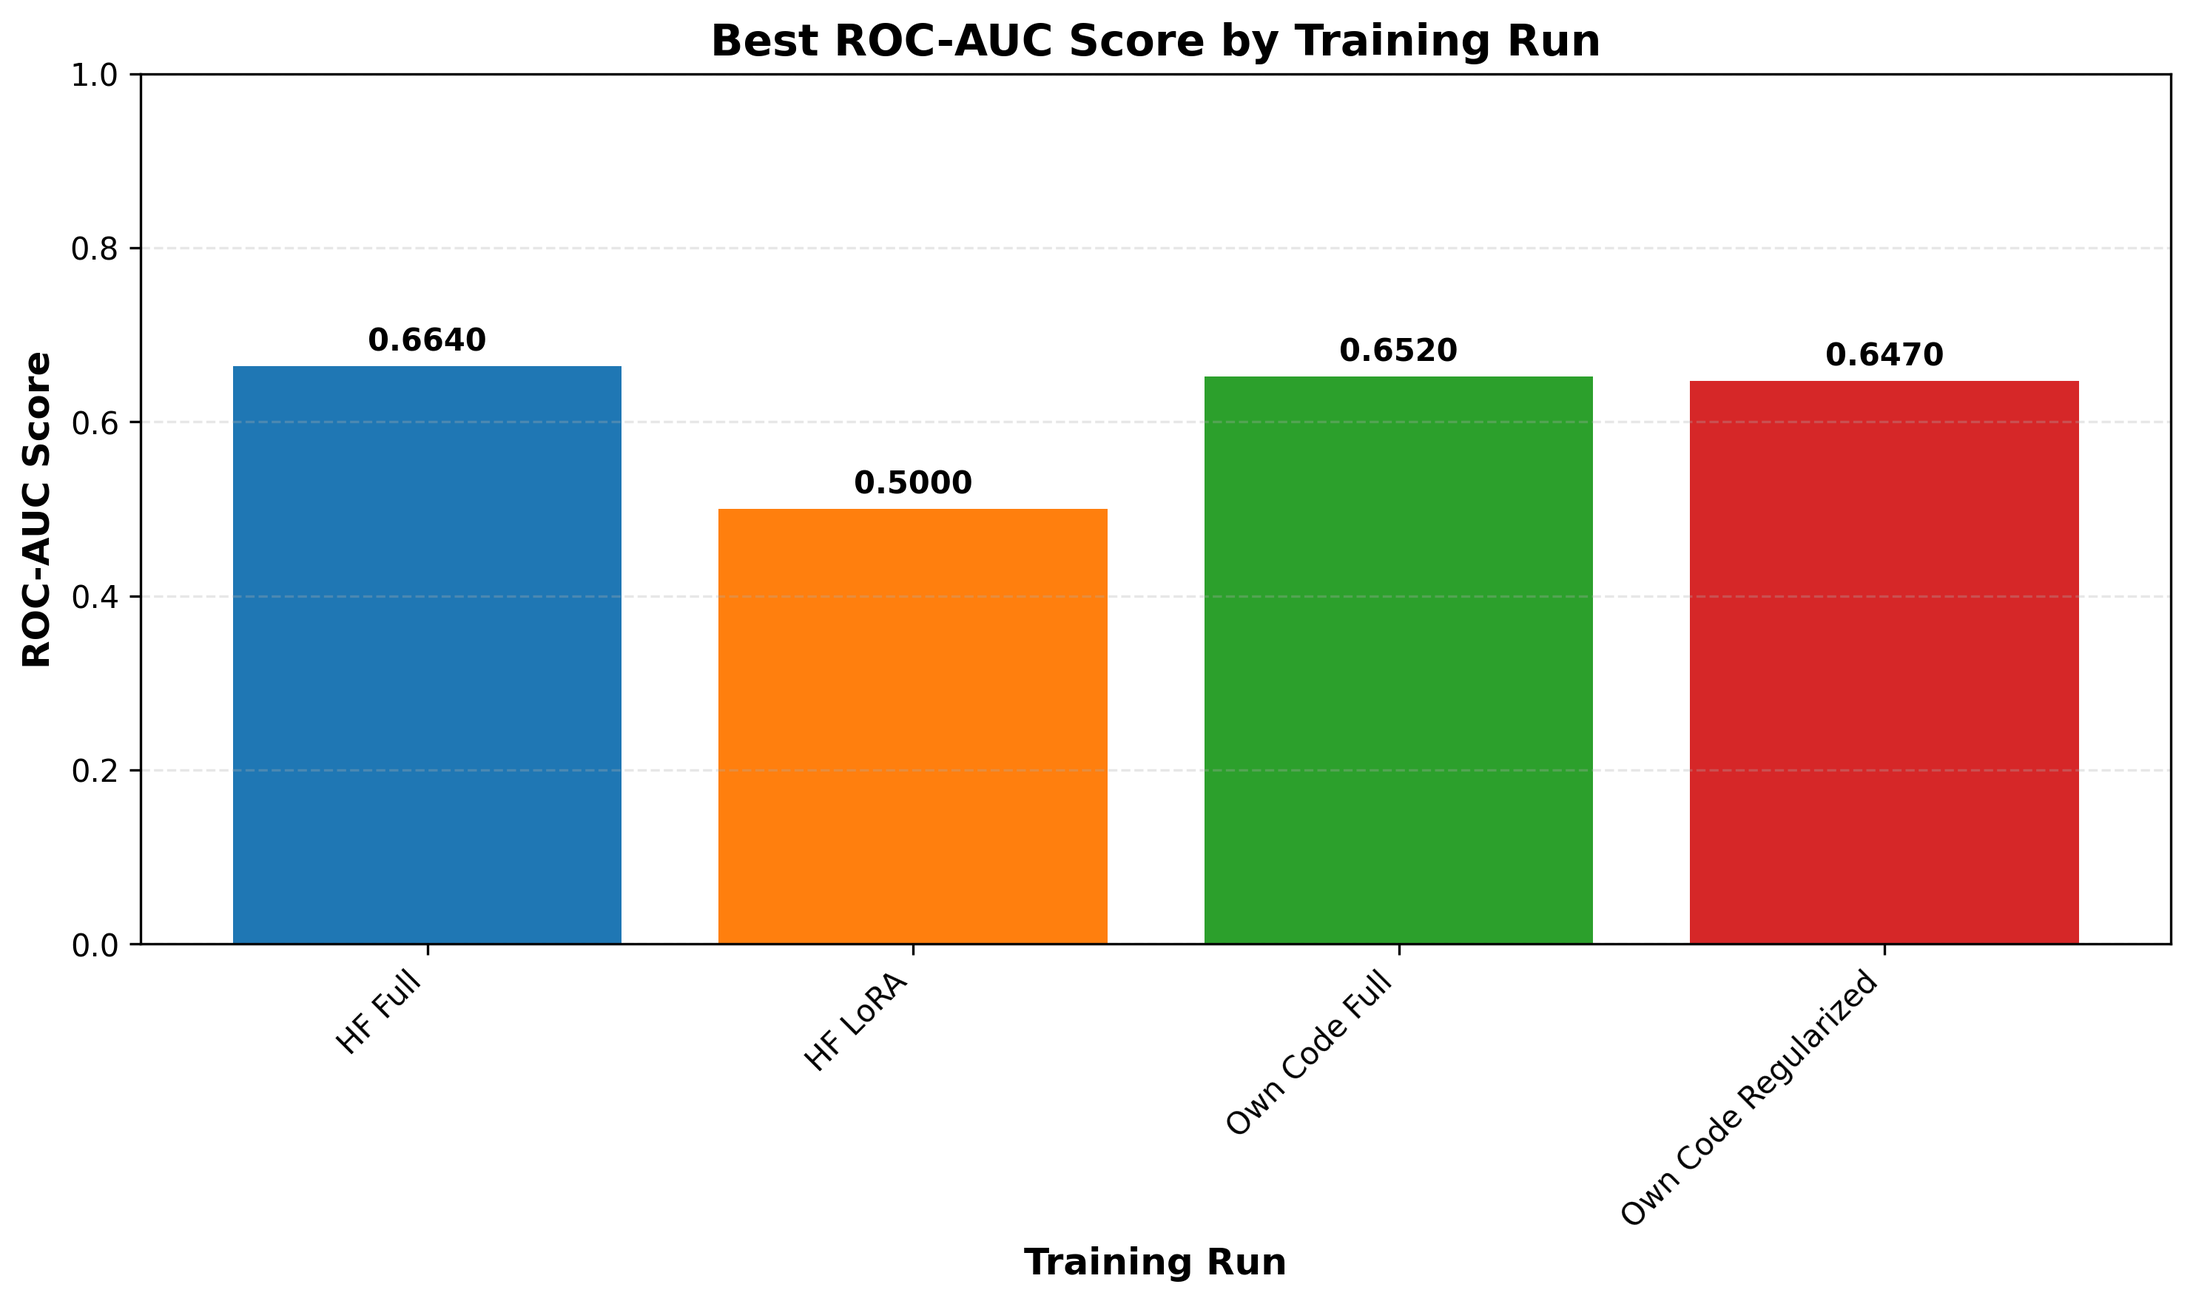
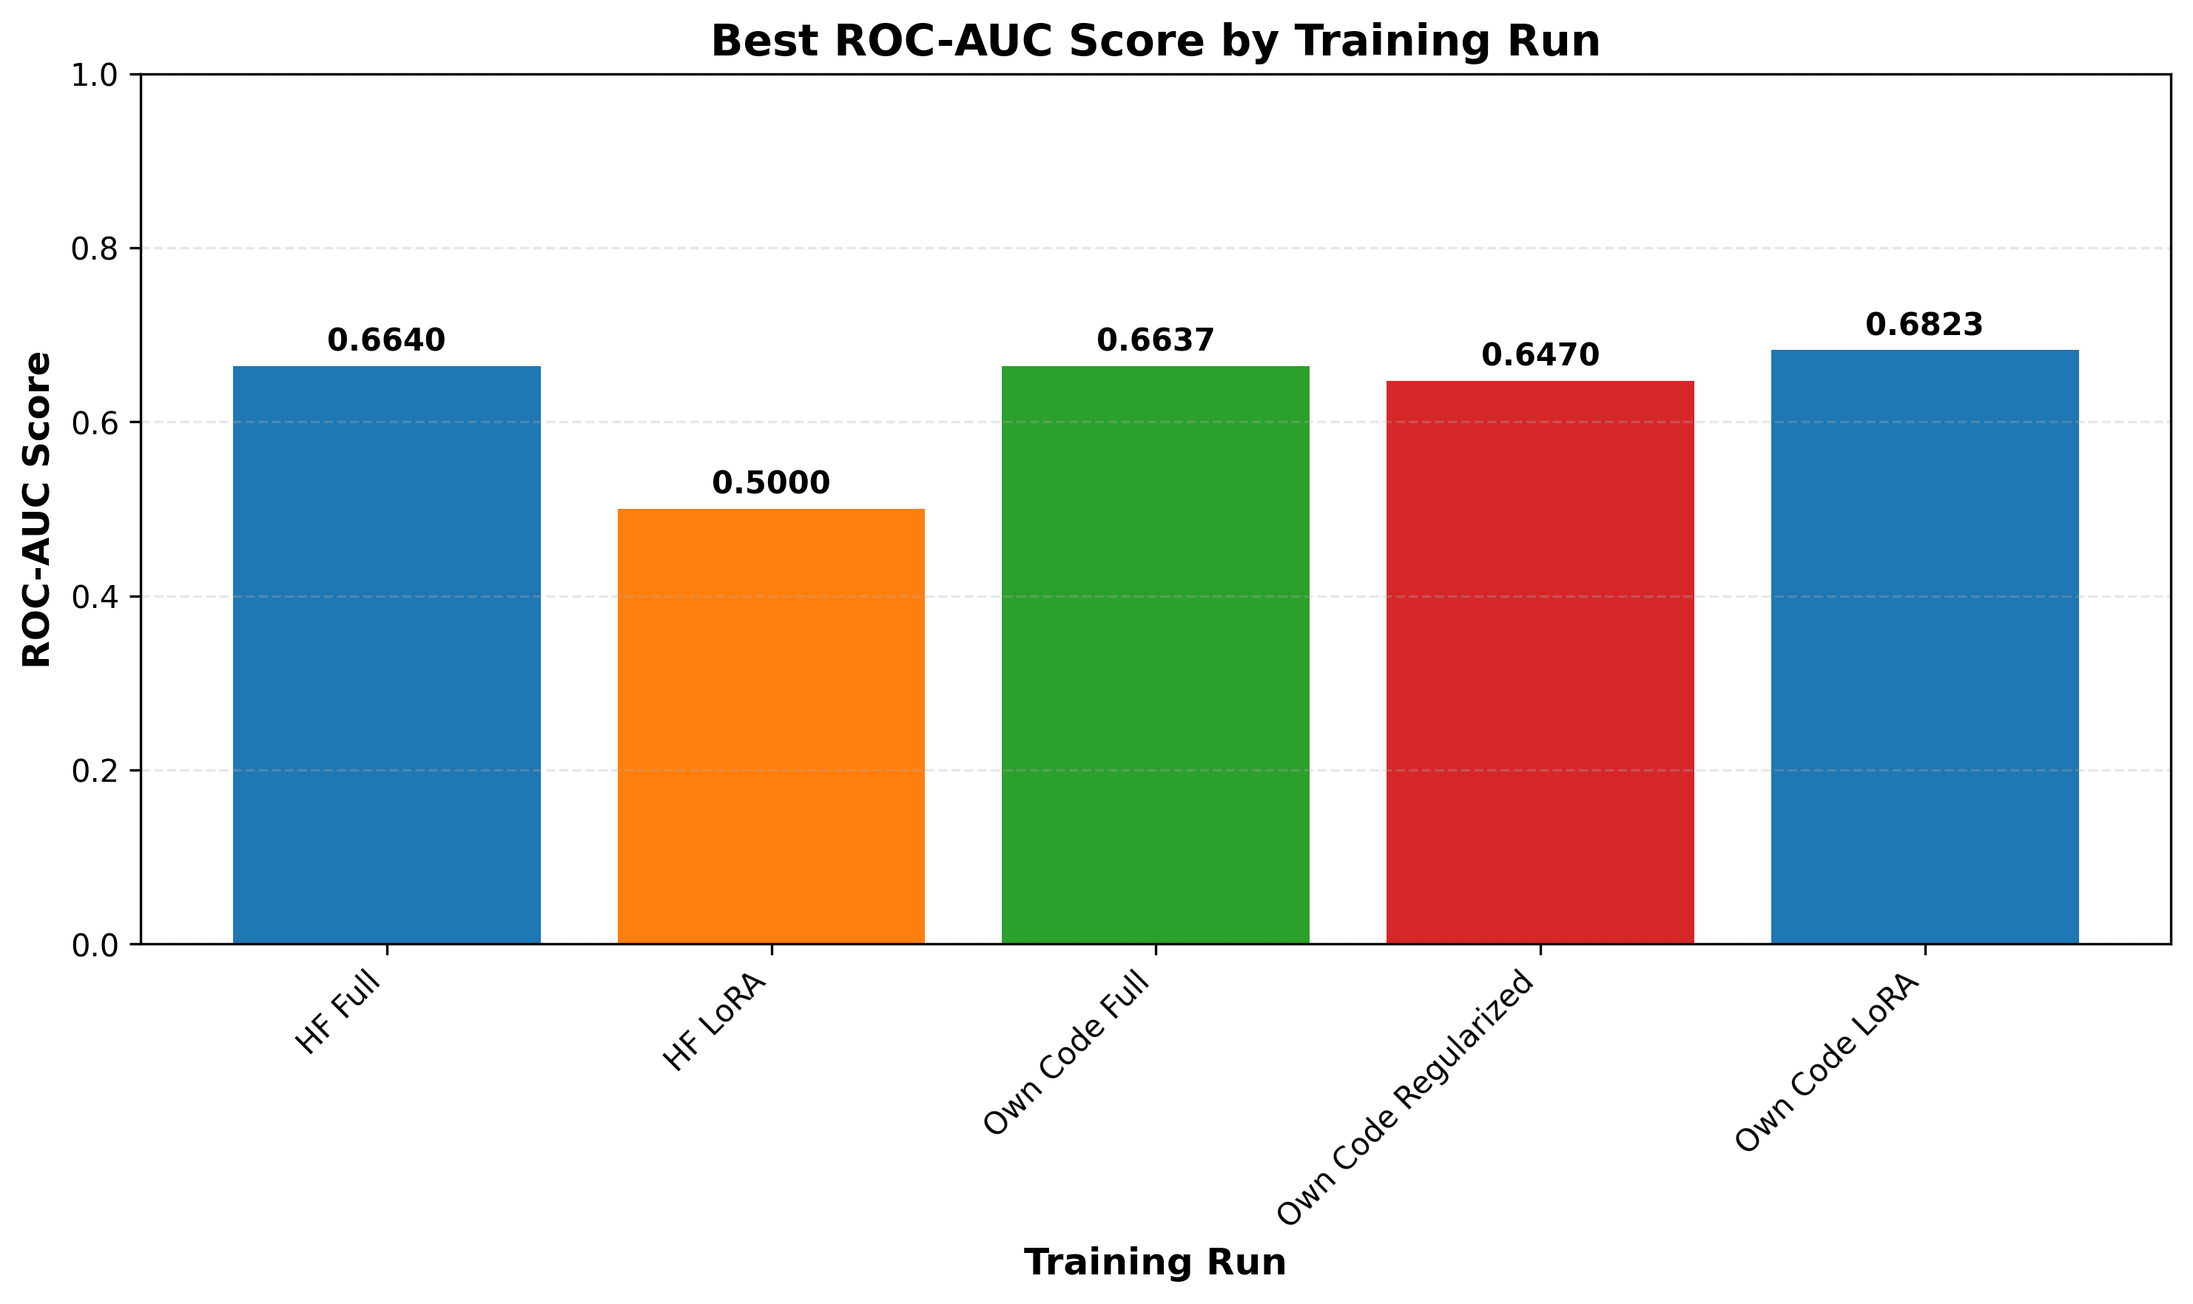
finished version

diff --git a/simple_trainer.py b/simple_trainer.py
@@ -30,14 +30,16 @@ def train(
     checkpoint_dir: Optional[str] = None,
     resume_from_checkpoint: bool = False,
     accumulate_gradient_steps: int = 1,
+    learning_rate: float = 4e-4,
+    max_grad_norm: float = 1.0,
+    num_warmup_steps: Optional[int] = None,
     flag_config: FLAGConfig = FLAGConfig(),
 ):
     # Initialize optimizer and scheduler
     num_steps = n_epochs * len(dataloader)
-    optimizer = get_optimizer(model)
-    scheduler = get_scheduler(optimizer, num_steps)
+    optimizer = get_optimizer(model, learning_rate=learning_rate)
+    scheduler = get_scheduler(optimizer, num_steps, num_warmup_steps=num_warmup_steps)
     current_epoch = 0
-    batch_size: int = cast(int, dataloader.batch_size)
 
     # Load from checkpoint if desired (model, optimizer and scheduler states)
     if resume_from_checkpoint and checkpoint_dir is not None:
@@ -67,6 +69,8 @@ def train(
         train_loss = 0.0
         train_steps = 0
         accumulated_steps = 0
+        total_grad_norm = 0.0
+        grad_norm_count = 0
 
         # Calculate total steps based on simulated batch size
         total_gradient_steps = len(dataloader) // (accumulate_gradient_steps) + (
@@ -97,6 +101,15 @@ def train(
 
                 loss = output.loss
 
+                # Check for NaN loss before proceeding
+                if torch.isnan(loss) or torch.isinf(loss):
+                    print(
+                        f"\nWARNING: NaN/Inf loss detected at epoch {epoch + 1}, step {step}"
+                    )
+                    print(f"Current LR: {scheduler.get_last_lr()[0]:.2e}")
+                    # Skip this batch
+                    continue
+
                 # Normalize loss by accumulation steps
                 loss = loss / accumulate_gradient_steps
 
@@ -118,6 +131,27 @@ def train(
             if can_apply_gradient_step(
                 accumulated_steps, accumulate_gradient_steps, step, len(dataloader)
             ):
+                # Compute gradient norm before clipping
+                grad_norm = torch.nn.utils.clip_grad_norm_(
+                    [p for p in model.parameters() if p.requires_grad],
+                    max_norm=max_grad_norm,
+                )
+
+                # Check for NaN gradients
+                if torch.isnan(grad_norm) or torch.isinf(grad_norm):
+                    print(
+                        f"\nWARNING: NaN/Inf gradient detected at epoch {epoch + 1}, step {step}"
+                    )
+                    print(
+                        f"Gradient norm: {grad_norm.item()}, Current LR: {scheduler.get_last_lr()[0]:.2e}"
+                    )
+                    optimizer.zero_grad()
+                    accumulated_steps = 0
+                    continue
+
+                total_grad_norm += grad_norm.item()
+                grad_norm_count += 1
+
                 optimizer.step()
                 optimizer.zero_grad()
                 scheduler.step()
@@ -125,12 +159,23 @@ def train(
                 accumulated_steps = 0
                 # Update progress bar only on actual gradient steps
                 pbar.update(1)
+                pbar.set_description(
+                    f"Epoch {epoch + 1}/{n_epochs} - Training Loss: {train_loss / train_steps:.4f} - Grad Norm: {grad_norm:.4f} - LR: {scheduler.get_last_lr()[0]:.2e}"
+                )
 
         pbar.close()
 
         avg_train_loss = train_loss / train_steps
+        avg_grad_norm = (
+            total_grad_norm / grad_norm_count if grad_norm_count > 0 else 0.0
+        )
+        current_lr = scheduler.get_last_lr()[0]
+
         print(
-            f"Epoch {epoch + 1}/{n_epochs} - Average Training Loss: {avg_train_loss:.4f}"
+            f"Epoch {epoch + 1}/{n_epochs} - "
+            f"Train Loss: {avg_train_loss:.4f}, "
+            f"Grad Norm: {avg_grad_norm:.4f}, "
+            f"LR: {current_lr:.2e}"
         )
 
         # Evaluation phase

diff --git a/optim.py b/optim.py
@@ -1,10 +1,12 @@
+from functools import partial
+import math
+
 import torch
 from torch import nn
 from torch.optim.lr_scheduler import LambdaLR
-from functools import partial
 
 
-def get_optimizer(opt_model: nn.Module):
+def get_optimizer(opt_model: nn.Module, learning_rate: float = 2e-4):
     # decay_parameters = [
     #     name
     #     for name, param in opt_model.named_parameters()
@@ -16,23 +18,65 @@ def get_optimizer(opt_model: nn.Module):
             "weight_decay": 0.0,
         },
     ]
-    optimizer = torch.optim.AdamW(optimizer_grouped_parameters, lr=5e-5)
+    optimizer = torch.optim.AdamW(optimizer_grouped_parameters, lr=learning_rate)
+    print("Optimizer created with learning rate:", learning_rate)
     return optimizer
 
 
-def _get_linear_schedule_with_warmup_lr_lambda(
-    current_step: int, num_training_steps: int
+def _get_cosine_schedule_with_warmup_lr_lambda(
+    current_step: int, num_warmup_steps: int, num_training_steps: int
 ):
+    if current_step < num_warmup_steps:
+        return float(current_step) / float(max(1, num_warmup_steps))
+    progress = float(current_step - num_warmup_steps) / float(max(1, num_training_steps - num_warmup_steps))
+    return max(0.0, 0.5 * (1.0 + math.cos(math.pi * progress)))
+
+
+def _get_linear_schedule_with_warmup_lr_lambda(
+    current_step: int, num_warmup_steps: int, num_training_steps: int
+):
+    if current_step < num_warmup_steps:
+        return float(current_step) / float(max(1, num_warmup_steps))
     return max(
         0.0,
-        float(num_training_steps - current_step) / float(max(1, num_training_steps)),
+        float(num_training_steps - current_step)
+        / float(max(1, num_training_steps - num_warmup_steps)),
     )
 
 
-def get_scheduler(optimizer: torch.optim.Optimizer, num_train_steps, last_epoch=-1):
-    # build the lineal scheduler
+def get_scheduler(
+    optimizer: torch.optim.Optimizer,
+    num_train_steps,
+    num_warmup_steps=None,
+    last_epoch=-1,
+):
+    # Default warmup: 20% of training steps for stability
+    if num_warmup_steps is None:
+        num_warmup_steps = max(1, int(0.2 * num_train_steps))
+
+    # build the cosine scheduler with warmup
+    lr_lambda = partial(
+        _get_cosine_schedule_with_warmup_lr_lambda,
+        num_warmup_steps=num_warmup_steps,
+        num_training_steps=num_train_steps,
+    )
+    return LambdaLR(optimizer, lr_lambda, last_epoch)
+
+
+def get_linear_scheduler(
+    optimizer: torch.optim.Optimizer,
+    num_train_steps,
+    num_warmup_steps=None,
+    last_epoch=-1,
+):
+    # Default warmup: 10% of training steps
+    if num_warmup_steps is None:
+        num_warmup_steps = max(1, int(0.1 * num_train_steps))
+
+    # build the linear scheduler with warmup
     lr_lambda = partial(
         _get_linear_schedule_with_warmup_lr_lambda,
+        num_warmup_steps=num_warmup_steps,
         num_training_steps=num_train_steps,
     )
     return LambdaLR(optimizer, lr_lambda, last_epoch)

diff --git a/simple_train_run.py b/simple_train_run.py
@@ -4,6 +4,7 @@ from torch.utils.data import DataLoader
 from transformers import GraphormerForGraphClassification
 from transformers.models.graphormer.collating_graphormer import GraphormerDataCollator
 
+from lora import apply_lora_to_model
 from simple_trainer import train
 
 if __name__ == "__main__":
@@ -11,6 +12,10 @@ if __name__ == "__main__":
     dataset = load_dataset("OGB/ogbg-molhiv", cache_dir="./data")
     seed = 42
     dataset = dataset.shuffle(seed=seed)
+    apply_lora = False
+    checkpoint_dir = "./graph-classification/own_code/full_b_64/molhiv"
+    resume_from_checkpoint = False
+    lr = 2e-4  # use 2e-4 for full fine-tuning, 2e-3 for LoRA
 
     model: GraphormerForGraphClassification = (
         GraphormerForGraphClassification.from_pretrained(
@@ -20,8 +25,13 @@ if __name__ == "__main__":
         )
     )
 
-    # Apply LoRA to specific modules
-    # apply_lora_to_model(model, module_names=["q_proj", "k_proj"], r=16)
+    if apply_lora:
+        # Apply LoRA to specific modules
+        apply_lora_to_model(
+            model,
+            module_names=["q_proj", "k_proj", "v_proj", "lm_head_transform_weight"],
+            r=16,
+        )
 
     train_ds = dataset["train"].with_format("numpy")
     eval = dataset["validation"].with_format("numpy")
@@ -50,7 +60,10 @@ if __name__ == "__main__":
         model=model,
         device=torch.device("mps"),
         n_epochs=8,
-        checkpoint_dir="./graph-classification/own_code/full_b_128/molhiv",
-        # resume_from_checkpoint=True,
-        accumulate_gradient_steps=8,  # simulating batch size of 128
+        checkpoint_dir=checkpoint_dir,
+        resume_from_checkpoint=resume_from_checkpoint,
+        accumulate_gradient_steps=4,  # simulating batch size of 64
+        learning_rate=lr,
+        max_grad_norm=10.0,  # Higher threshold for 2e-4 LR
+        num_warmup_steps=None,  # Defaults to 10% of total steps
     )

diff --git a/lora.py b/lora.py
@@ -62,6 +62,7 @@ def apply_lora_to_model(
         module_names: List of module names (as strings) to apply LoRA to.
     """
     # Freeze all model parameters first
+    print("Applying LoRA to the model...")
     model.requires_grad_(False)
 
     applied_modules = []
@@ -76,8 +77,13 @@ def apply_lora_to_model(
             for part in name_parts[:-1]:
                 parent_module = getattr(parent_module, part)
             setattr(parent_module, name_parts[-1], lora_layer)
+        if name == "classifier":
+            module.requires_grad_(
+                True
+            )  # Always train the final classifier layer, otherwise performance degrades significantly
+            applied_modules.append(name)
 
     print(f"Applied LoRA to modules: {applied_modules}")
     print(
-        f"Total trainable parameters after LoRA: {sum(p.numel() for p in model.parameters() if p.requires_grad)} from a total of {sum(p.numel() for p in model.parameters())} parameters."
+        f"Total trainable parameters after LoRA: {sum(p.numel() for p in model.parameters(recurse=True) if p.requires_grad)} from a total of {sum(p.numel() for p in model.parameters(recurse=True))} parameters."
     )

diff --git a/plot_best_roc_auc.py b/plot_best_roc_auc.py
@@ -71,8 +71,9 @@ def main():
     runs = {
         "HF Full": "./graph-classification/full/molhiv",
         "HF LoRA": "./graph-classification/lora/molhiv",
-        "Own Code Full": "./graph-classification/own_code/full/molhiv",
+        "Own Code Full": "./graph-classification/own_code/full_b_64/molhiv",
         "Own Code Regularized": "./graph-classification/own_code/regularized/molhiv",
+        "Own Code LoRA": "./graph-classification/own_code/lora/molhiv",
     }
 
     # Collect best ROC-AUC for each run

diff --git a/graph_classification_regularized.py b/graph_classification_regularized.py
@@ -57,7 +57,7 @@ if __name__ == "__main__":
         model=model,
         device=torch.device("mps"),
         n_epochs=8,
-        checkpoint_dir="./graph-classification/own_code/flag/molhiv",
+        checkpoint_dir="./graph-classification/own_code/regularized/molhiv",
         # resume_from_checkpoint=True,
         accumulate_gradient_steps=4,
     )

diff --git a/readme.md b/readme.md
@@ -1,4 +1,4 @@
-# Evaluating fine-tuning graphormer with LoRA
+# Evaluating fine-tuning Graphormer with LoRA
 
 For the course "Seminar Geometry and Topology in Deep Learning" from the Swiss Joint Master of Science in Computer Science at the University of Fribourg, I did a project whose main goal was to evaluate [LoRA](https://arxiv.org/pdf/2106.09685) on the [Graphormer](https://graphormer.readthedocs.io/en/latest/).
 
@@ -16,22 +16,29 @@ The main goal of this project is to evaluate the performance of LoRA when fine-t
 
 ## Project Structure
 
+Please check the following structure of the project. Here you can concretely see what I did and where the experiments are located and the results, so you can check my work:
+
 - checkpointing.py: Code for saving and loading model checkpoints during training.
 - lora.py: Own implementation of the LoRA method for parameter-efficient fine-tuning.
 - optim.py: Code for defining optimizers and learning rate schedulers.
 - simple_trainer.py: Own implementation of a simple trainer for training and evaluating models.
-- trainer.py: Code for defining a Trainer class that handles that overrides the evaluation of models using the Hugging Face Trainer API for making it more efficient, improving run time by 3x.
-- graphormer: extension of the Graphormer model to include a model weights regularization loss during fine-tuning.
+- trainer.py: Code for defining a Trainer class that overrides the evaluation of models using the Hugging Face Trainer API for making it more efficient, improving run time by 3x compared to the HF implementation.
+- graphormer: Extension of the Graphormer model to include a model weights regularization loss during fine-tuning.
 - experiments:
   - graphormer-ft.py: Code for full fine-tuning of the Graphormer model using the Hugging Face Trainer API.
   - graphormer_lora.py: Code for fine-tuning the Graphormer model with LoRA using the Hugging Face Trainer API.
-  - simple_run.py: Code for running quick experiments using the simple trainer.
-    graph
+  - simple_train_run.py: Code for running quick experiments using the simple trainer. You need to set the variable `apply_lora` to True or False depending on whether you want to use LoRA or not.
   - graph_classification_regularized.py: Code for fine-tuning the Graphormer
     model with model weights regularization using the simple trainer.
 - results.ipynb: Notebook for plotting and analyzing the results of the experiments.
 
 ## How to run the code
+
+### Dataset
+
+You need to download the MOLHIV dataset from the [OGB website](https://ogb.stanford.edu/docs/graphprop/#molhiv) and place it in the `./data` folder.
+
+### Running the experiments
 
 1. Clone this repository.
 2. Install the required packages listed using `conda`
@@ -41,12 +48,49 @@ The main goal of this project is to evaluate the performance of LoRA when fine-t
    ```
 3. Run all the experiments
    ```bash
-   python ./{experiment_file}.py
+   python ./simple_train_run.py
    ```
-4. Run and analyze the results
+4. Alternatively, you can run each experiment separately:
+   - Full fine-tuning
+     ```bash
+     python ./experiments/graphormer-ft.py
+     ```
+   - LoRA fine-tuning
+     ```bash
+     python ./experiments/graphormer_lora.py
+     ```
+   - Fine-tuning with model weights regularization
+     ```bash
+     python ./experiments/graph_classification_regularized.py
+     ```
+5. Run and analyze the results
    ```bash
    jupyter notebook results.ipynb
    ```
+   **Important Note**: In the simple_train_run.py file, you need to set the variable `apply_lora` to True or False depending on whether you want to use LoRA or not. Also, change the lr parameter accordingly, since LoRA usually requires a higher learning rate than full fine-tuning.
 
-I also tried to implement [FLAG](https://arxiv.org/pdf/2010.09891) for adversarial training, which is very important for molecular datasets such as MOLHIV, but I could not finish it due to time constraints. I implemented the flag inner loop but I also had to integrate it into the model and this is the part I could not finish.
+I also tried to implement [FLAG](https://arxiv.org/pdf/2010.09891) for adversarial training, which is very important for molecular datasets such as MOLHIV, but I could not finish it due to time constraints. I implemented the flag inner loop (see simple_trainer.py) but I also had to integrate it into the model and this is the part I could not finish.
 That's why the results are so poorly compared to the ones in the paper, i.e. just take as base the full fine-tuning results and the compare them with the other experiments.
+
+### Hyperparameters
+
+The hyperparameters used for the experiments were the default ones given by the paper for the MOLHIV dataset. For Lora, I used r=16 as the rank for the decomposition matrices, which is a common value used in the literature for this task. This gave a reduction ratio of ~99% of trainable parameters compared to full fine-tuning and improved the training time by 3x, making one epoch taking around 20 minutes instead of 1 hour.
+
+### Setup
+
+All the experiments were run in a M1 MacBook Pro with 32GB of RAM (CPU & GPU).
+
+## Results
+
+Please check the results notebook [results.ipynb](results.ipynb) for more details about the results obtained in the experiments.
+
+## Acknowledgements
+
+I would like to thank Johannes Schmidt for his promptly support and guidance throughout the project. All this work is completely based on the original [Graphormer implementation](https://github.com/microsoft/Graphormer) and the [Hugging Face Transformers](https://huggingface.co/microsoft/Graphormer) library.
+
+## References
+
+- [Do Transformers Really Perform Bad for Graph Representation?](https://arxiv.org/abs/2106.05234)
+- [LoRA: Low-Rank Adaptation of Large Language Models](https://arxiv.org/pdf/2106.09685)
+- [Robust Optimization as Data Augmentation for Large-scale Graphs](https://arxiv.org/pdf/2010.09891)
+- [Attention is All You Need](https://arxiv.org/abs/1706.03762)
